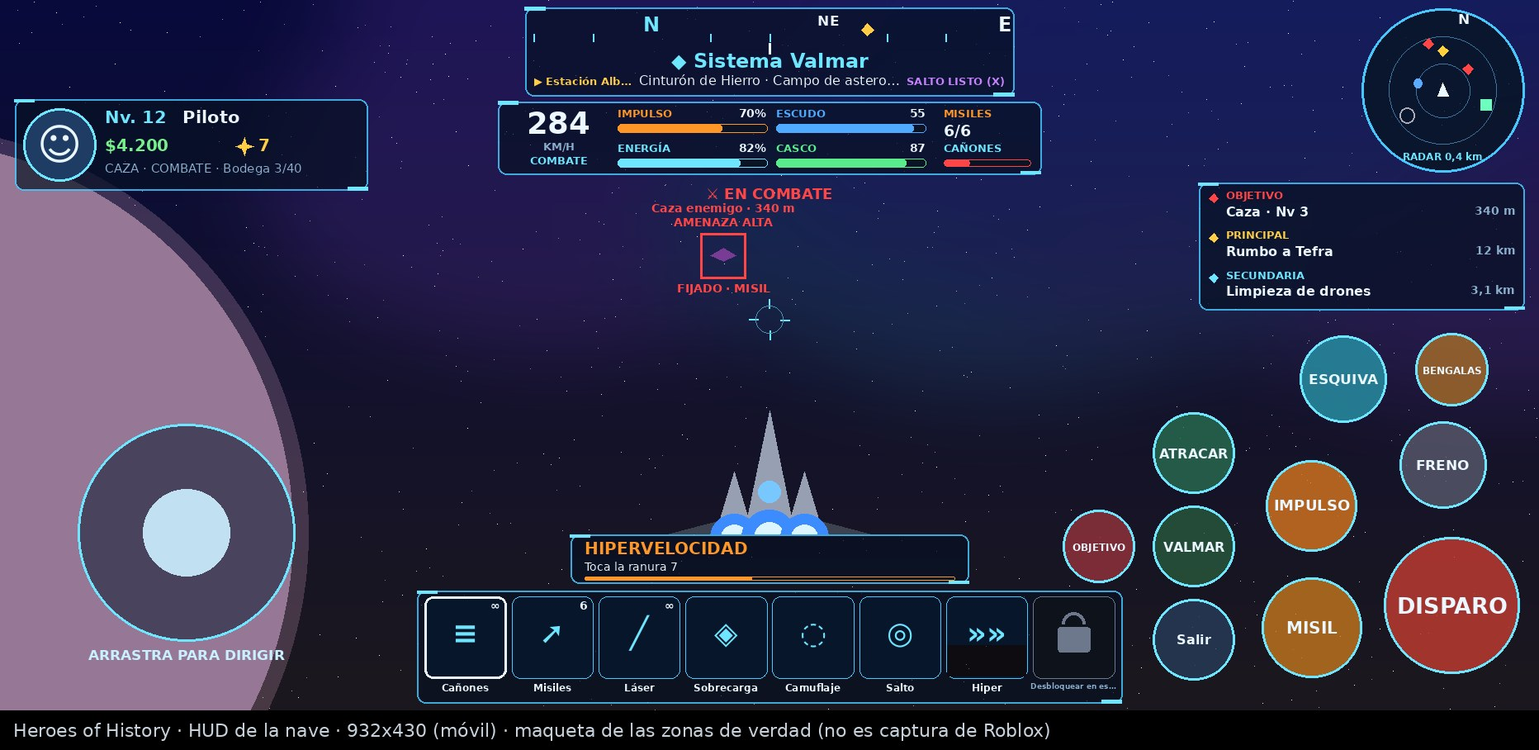
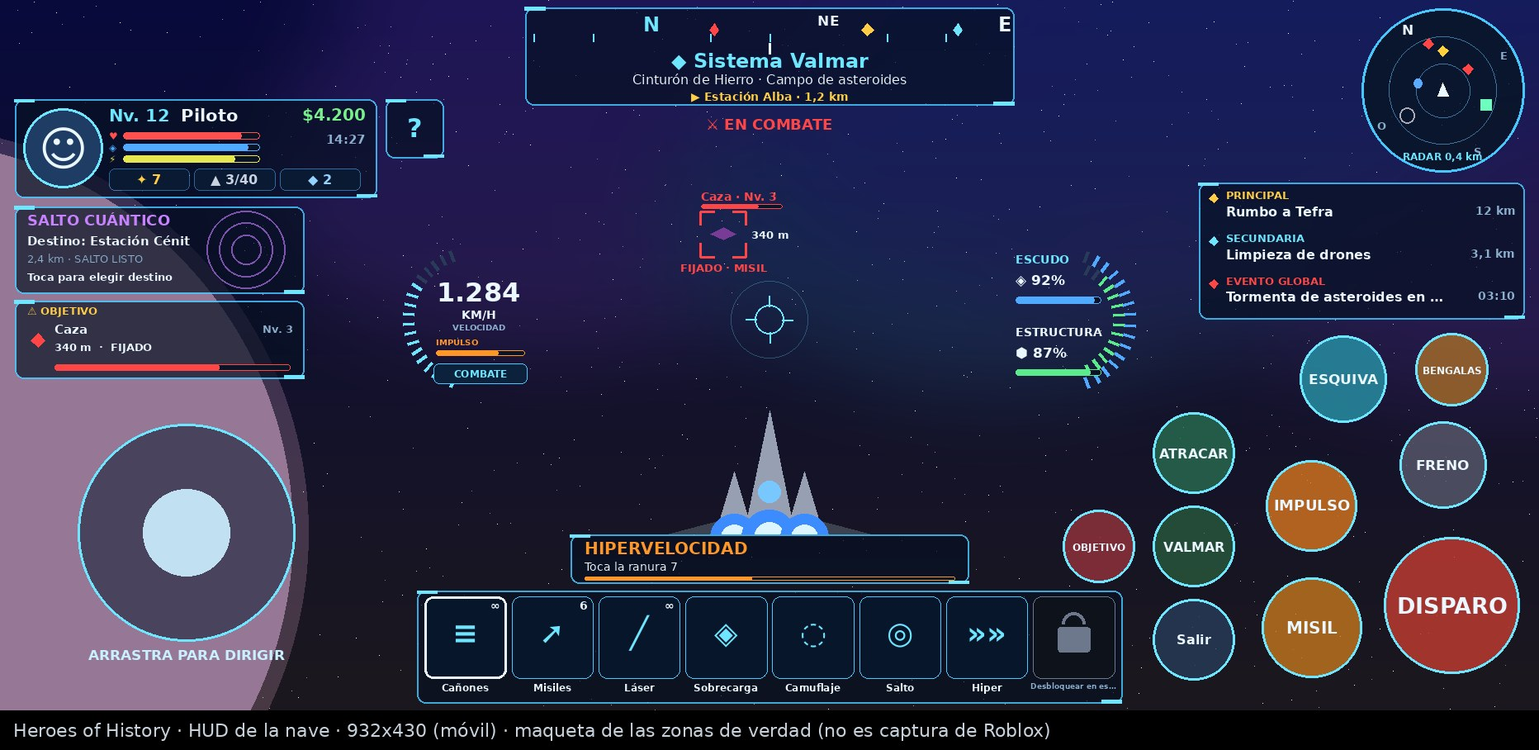
HUD de la referencia: maquetas nuevas (ordenador y móvil) y auditoría en diseno.md
- Maquetas con todo lo de la imagen: perfil con recursos y barras, brújula con marcas, arcos de velocidad, escudo y estructura, salto cuántico, objetivo, las dos listas de teclas, la nave en planta, atajos con Modo Combate y reloj; en el móvil, en compacto con «?».
- diseno.md §11: cada elemento de la referencia y dónde está, eventos globales, API por vehículo y lista de comprobación a mano.

Claude-Session: https://claude.ai/code/session_01NLHSc9vUgM3Lfn2jUL556r

diff --git a/roblox/scripts/espacio/hud_mockup.py b/roblox/scripts/espacio/hud_mockup.py
@@ -139,6 +139,37 @@ def bar(d, x, y, w, h, frac, color):
     d.rounded_rectangle([x, y, x + max(h, w * frac), y + h], radius=h / 2, fill=color)
 
 
+def arc_ticks(d, x, y, w, h, n, a0, a1, radius, k, lit, col, right=False):
+    """Rayitas de un arco en un cuadrado del alto del marco (como ShipHudLayout.arc)."""
+    side = h
+    ox = x + w - side if right else x
+    for i in range(n):
+        a = math.radians(a0 + (a1 - a0) * (i / (n - 1)))
+        cx, cy = ox + side * (0.5 + math.cos(a) * radius), y + side * (0.5 + math.sin(a) * radius)
+        dx, dy = math.cos(a) * 6 * k, math.sin(a) * 6 * k
+        c = col if i < lit else (40, 60, 90)
+        d.line([(cx - dx, cy - dy), (cx + dx, cy + dy)], fill=c, width=max(1, int(4 * k)))
+
+
+def key_chip(d, x, y, w, h, text, k, size=11):
+    d.rounded_rectangle([x, y, x + w, y + h], radius=4 * k, fill=(20, 40, 70), outline=EDGE)
+    d.text((x + w / 2, y + h / 2), text, font=font(size * k), fill=WHITE, anchor="mm")
+
+
+def plan_ship(d, cx, cy, s, col=(170, 200, 230)):
+    """La nave en planta (esquema de abajo a la izquierda y los atajos)."""
+    d.rectangle([cx - 0.05 * s, cy - 0.45 * s, cx + 0.05 * s, cy + 0.45 * s], fill=col)
+    d.polygon([(cx - 0.45 * s, cy + 0.2 * s), (cx, cy - 0.05 * s), (cx + 0.45 * s, cy + 0.2 * s), (cx + 0.45 * s, cy + 0.25 * s), (cx - 0.45 * s, cy + 0.25 * s)], fill=col)
+    for sx in (-0.2, 0.2):
+        d.polygon([(cx + sx * s, cy - 0.3 * s), (cx + (sx - 0.04) * s, cy + 0.35 * s), (cx + (sx + 0.04) * s, cy + 0.35 * s)], fill=col)
+    d.ellipse([cx - 0.06 * s, cy - 0.27 * s, cx + 0.06 * s, cy - 0.13 * s], fill=CYAN)
+
+
+# (los textos de las teclas, como ShipKeys.groupHints)
+FLIGHT = [("W/S", "Motor (acelerar / frenar)"), ("A/D", "Lateral"), ("Espacio/Alt", "Subir / bajar"), ("Shift", "Impulso / hipervelocidad"), ("Ctrl", "Frenar (doble: emergencia)"), ("Q", "Giro izquierda"), ("E", "Giro derecha"), ("Clic", "Disparar"), ("2", "Misil"), ("R", "Recargar armas"), ("Tab", "Cambiar de objetivo"), ("F", "Interactuar / atracar")]
+SPECIAL = [("C", "Esquivar / rodar"), ("X", "Salto cuántico"), ("7", "Hipervelocidad"), ("Z", "Camuflaje"), ("4", "Sobrecarga del escudo"), ("8", "Dron"), ("K", "Bengalas"), ("T", "Modo combate / crucero / …"), ("Y", "Asistencia de vuelo"), ("B", "Salir / abandonar nave")]
+
+
 def render(case, out_path):
     W, H = case["Size"]
     k = case["Scale"]
@@ -151,30 +182,51 @@ def render(case, out_path):
     Z = case["Zones"]
     # Nave y un enemigo fijado (el centro queda libre)
     ship(d, W * up / 2, H * up * 0.72, 2.2 * k * (1 if not touch else 1.1))
-    ex, ey = W * up * 0.47, H * up * 0.36
+    ex, ey = W * up * 0.47, H * up * 0.33
     d.polygon([(ex - 14 * k, ey), (ex, ey - 8 * k), (ex + 14 * k, ey), (ex, ey + 6 * k)], fill=(120, 60, 150))
     box = 50 * k
-    d.rectangle([ex - box / 2, ey - box / 2, ex + box / 2, ey + box / 2], outline=RED, width=max(1, int(3 * k)))
-    d.text((ex, ey - box / 2 - 4 * k), "Caza enemigo · 340 m\nAMENAZA ALTA", font=font(13 * k), fill=RED, anchor="md", align="center")
-    d.text((ex, ey + box / 2 + 4 * k), "FIJADO · MISIL", font=font(13 * k), fill=RED, anchor="ma")
-    # Mira (pequeña)
+    L = 15 * k
+    for sx, sy in ((-1, -1), (1, -1), (-1, 1), (1, 1)):
+        cx, cy = ex + sx * box / 2, ey + sy * box / 2
+        d.line([(cx, cy), (cx - sx * L, cy)], fill=RED, width=max(1, int(3 * k)))
+        d.line([(cx, cy), (cx, cy - sy * L)], fill=RED, width=max(1, int(3 * k)))
+    d.text((ex - box / 2, ey - box / 2 - 12 * k), "Caza · Nv. 3", font=font(13 * k), fill=RED, anchor="ls")
+    bar(d, ex - box / 2, ey - box / 2 - 9 * k, 90 * k, 5 * k, 0.7, RED)
+    d.text((ex + box / 2 + 6 * k, ey), "340 m", font=font(12 * k), fill=WHITE, anchor="lm")
+    d.text((ex, ey + box / 2 + 4 * k), "FIJADO · MISIL", font=font(12 * k), fill=RED, anchor="ma")
+    # Mira con su aro
     mx, my = W * up / 2, H * up * 0.45
     for dx, dy in ((0, -1), (0, 1), (-1, 0), (1, 0)):
-        d.line([(mx + dx * 12 * k, my + dy * 12 * k), (mx + dx * 22 * k, my + dy * 22 * k)], fill=CYAN, width=max(1, int(2 * k)))
-    d.ellipse([mx - 15 * k, my - 15 * k, mx + 15 * k, my + 15 * k], outline=CYAN + (150,), width=1)
-    # A · perfil
+        d.line([(mx + dx * 14 * k, my + dy * 14 * k), (mx + dx * 26 * k, my + dy * 26 * k)], fill=CYAN, width=max(1, int(2 * k)))
+    d.ellipse([mx - 16 * k, my - 16 * k, mx + 16 * k, my + 16 * k], outline=CYAN, width=max(1, int(2 * k)))
+    d.ellipse([mx - 42 * k, my - 42 * k, mx + 42 * k, my + 42 * k], outline=CYAN + (70,), width=1)
+    # A · piloto
     x, y, w, h = panel(layer, Z["A"], k)
     av = h - 20 * k
     d.ellipse([x + 10 * k, y + 10 * k, x + 10 * k + av, y + 10 * k + av], fill=(30, 60, 100), outline=CYAN, width=max(1, int(3 * k)))
     d.text((x + 10 * k + av / 2, y + 10 * k + av / 2), "☺", font=font(av * 0.6), fill=WHITE, anchor="mm")
-    tx = x + (112 if not touch else 100) * k
-    d.text((tx, y + 8 * k), "Nv. 12", font=font(20 * k), fill=CYAN)
-    d.text((tx + 86 * k, y + 8 * k), "Piloto", font=font(20 * k), fill=WHITE)
-    d.text((tx, y + 40 * k), "$4.200", font=font(19 * k), fill=(120, 240, 140))
-    sx0 = tx + (w - (tx - x)) / 2
-    star(d, sx0 + 9 * k, y + 52 * k, 10 * k, GOLD)
-    d.text((sx0 + 24 * k, y + 40 * k), "7", font=font(19 * k), fill=GOLD)
-    d.text((tx, y + 68 * k), "CAZA · COMBATE · Bodega 3/40", font=font(14 * k, False), fill=MUTED)
+    tx = x + (104 if touch else 120) * k
+    d.text((tx, y + 6 * k), "Nv. 12", font=font(20 * k), fill=CYAN)
+    d.text((tx + 80 * k, y + 6 * k), "Piloto", font=font(20 * k), fill=WHITE)
+    d.text((x + w - 12 * k, y + 6 * k), "$4.200", font=font(19 * k), fill=(120, 240, 140), anchor="ra")
+    by, step, bw = (36, 13, 150) if touch else (40, 15, 180)
+    for i, (icon, col, frac) in enumerate((("♥", (255, 80, 80), 0.87), ("◈", BLUE, 0.92), ("⚡", (230, 230, 80), 0.82))):
+        yy = y + (by + i * step) * k
+        d.text((tx, yy - 3 * k), icon, font=font(11 * k), fill=col)
+        bar(d, tx + 16 * k, yy, bw * k, 7 * k, frac, col)
+    if touch:
+        d.text((x + w - 12 * k, y + by * k), "14:27", font=font(14 * k), fill=MUTED, anchor="ra")
+    else:
+        d.text((tx + (bw + 26) * k, y + (by - 4) * k), "CAZA · COMBATE", font=font(12 * k, False), fill=MUTED)
+    ry = y + (76 if touch else 90) * k
+    rw = (w - (tx - x) - 12 * k) / 3
+    for i, (txt, col) in enumerate((("✨ 7", GOLD), ("⛏ 3/40", (200, 210, 225)), ("💎 2", (150, 210, 255)))):
+        rx = tx + i * rw
+        d.rounded_rectangle([rx, ry, rx + rw - 6 * k, ry + 24 * k], radius=6 * k, fill=(10, 26, 50), outline=EDGE + (120,))
+        d.text((rx + (rw - 6 * k) / 2, ry + 12 * k), txt.replace("💎", "◆").replace("⛏", "▲").replace("✨", "✦"), font=font(15 * k), fill=col, anchor="mm")
+    if "Help" in Z:
+        hx, hy, hw, hh = panel(layer, Z["Help"], k)
+        d.text((hx + hw / 2, hy + hh / 2), "?", font=font(30 * k), fill=CYAN, anchor="mm")
     # B · navegación
     x, y, w, h = panel(layer, Z["B"], k)
     heading = 30
@@ -187,32 +239,14 @@ def render(case, out_path):
                 d.text((px, y + 6 * k), name, font=font((22 if deg % 90 == 0 else 16) * k), fill=CYAN if name == "N" else WHITE, anchor="ma")
             else:
                 d.line([(px, y + 30 * k), (px, y + 38 * k)], fill=CYAN, width=max(1, int(2 * k)))
-    tpx = x + 10 * k + (0.5 + 25 / 120) * (w - 20 * k)
-    d.polygon([(tpx, y + 18 * k), (tpx + 7 * k, y + 25 * k), (tpx, y + 32 * k), (tpx - 7 * k, y + 25 * k)], fill=GOLD)
+    for bx, col, s in ((25, GOLD, 7), (-14, RED, 5), (48, CYAN, 5)):
+        tpx = x + 10 * k + (0.5 + bx / 120) * (w - 20 * k)
+        d.polygon([(tpx, y + 18 * k), (tpx + s * k, y + 25 * k), (tpx, y + 32 * k), (tpx - s * k, y + 25 * k)], fill=col)
     d.line([(x + w / 2, y + 40 * k), (x + w / 2, y + 52 * k)], fill=WHITE, width=max(1, int(3 * k)))
     d.text((x + w / 2, y + 46 * k), "◆ Sistema Valmar", font=font(22 * k), fill=CYAN, anchor="ma")
-    fz, fs = font(15 * k, False), font(12 * k)
-    d.text((x + w / 2, y + 72 * k), fit(d, "Cinturón de Hierro · Campo de asteroides", fz, w * 0.54), font=fz, fill=WHITE, anchor="ma")
-    d.text((x + 10 * k, y + 74 * k), fit(d, "▶ Estación Alba · 1,2 km", fs, w * 0.22 - 10 * k), font=fs, fill=GOLD)
-    d.text((x + w - 10 * k, y + 74 * k), fit(d, "SALTO LISTO (X)", fs, w * 0.22 - 10 * k), font=fs, fill=VIOLET, anchor="ra")
-    # C · estado
-    x, y, w, h = panel(layer, Z["C"], k)
-    d.text((x + 67 * k, y + 4 * k), "284", font=font(34 * k), fill=WHITE, anchor="ma")
-    d.text((x + 67 * k, y + 42 * k), "KM/H", font=font(12 * k), fill=MUTED, anchor="ma")
-    d.text((x + 67 * k, y + 58 * k), "COMBATE", font=font(12 * k), fill=CYAN, anchor="ma")
-    colw = (w - 132 * k - (128 if touch else 148) * k - 10 * k) / 2
-    rows = [("IMPULSO", ORANGE, 0.7, "70%"), ("ENERGÍA", CYAN, 0.82, "82%"), ("ESCUDO", BLUE, 0.92, "55"), ("CASCO", GREEN, 0.87, "87")]
-    for i, (cap, col, frac, val) in enumerate(rows):
-        cx = x + 132 * k + (i // 2) * (colw + 10 * k)
-        cy = y + (6 + (i % 2) * 38) * k
-        d.text((cx, cy), cap, font=font(12 * k), fill=col)
-        d.text((cx + colw, cy), val, font=font(13 * k), fill=WHITE, anchor="ra")
-        bar(d, cx, cy + 19 * k, colw, 9 * k, frac, col)
-    rx = x + w - (108 if touch else 124) * k
-    d.text((rx, y + 6 * k), "MISILES", font=font(12 * k), fill=ORANGE)
-    d.text((rx, y + 22 * k), "6/6", font=font(18 * k), fill=WHITE)
-    d.text((rx, y + 44 * k), "CAÑONES", font=font(12 * k), fill=CYAN)
-    bar(d, rx, y + 64 * k, (96 if touch else 116) * k, 7 * k, 0.3, RED)
+    fz = font(15 * k, False)
+    d.text((x + w / 2, y + 71 * k), fit(d, "Cinturón de Hierro · Campo de asteroides", fz, w - 24 * k), font=fz, fill=WHITE, anchor="ma")
+    d.text((x + w / 2, y + 91 * k), "▶ Estación Alba · 1,2 km", font=font(13 * k), fill=GOLD, anchor="ma")
     # J · aviso
     x, y, w, h = [v * k for v in Z["J"]]
     d.text((x + w / 2, y + h / 2), "⚔ EN COMBATE", font=font(17 * k), fill=RED, anchor="mm")
@@ -223,8 +257,8 @@ def render(case, out_path):
         d.ellipse([x + w * (1 - f) / 2, y + h * (1 - f) / 2, x + w * (1 + f) / 2, y + h * (1 + f) / 2], outline=CYAN + (110,), width=1)
     cx, cy = x + w / 2, y + h / 2
     d.polygon([(cx, cy - 8 * k), (cx - 6 * k, cy + 6 * k), (cx + 6 * k, cy + 6 * k)], fill=WHITE)
-    for (bx, by, col, shape) in ((0.0, -0.55, (255, 210, 60), "r"), (0.35, -0.3, RED, "r"), (-0.2, -0.65, RED, "r"), (0.6, 0.2, (110, 255, 190), "s"), (-0.5, 0.35, (170, 170, 185), "o"), (-0.35, -0.1, (90, 170, 255), "c")):
-        px, py = cx + bx * w * 0.44, cy + by * h * 0.44
+    for (bx, by2, col, shape) in ((0.0, -0.55, (255, 210, 60), "r"), (0.35, -0.3, RED, "r"), (-0.2, -0.65, RED, "r"), (0.6, 0.2, (110, 255, 190), "s"), (-0.5, 0.35, (170, 170, 185), "o"), (-0.35, -0.1, (90, 170, 255), "c")):
+        px, py = cx + bx * w * 0.44, cy + by2 * h * 0.44
         s = 6 * k
         if shape == "r":
             d.polygon([(px, py - s), (px + s, py), (px, py + s), (px - s, py)], fill=col)
@@ -234,40 +268,107 @@ def render(case, out_path):
             d.ellipse([px - s * 1.4, py - s * 1.4, px + s * 1.4, py + s * 1.4], outline=col, width=2)
         else:
             d.ellipse([px - s * 0.8, py - s * 0.8, px + s * 0.8, py + s * 0.8], fill=col)
-    d.text((cx + 0.3 * w * 0.43, y + 0.06 * h), "N", font=font(16 * k), fill=WHITE, anchor="mm")
+    for letter, off in (("N", 0), ("E", 90), ("S", 180), ("O", 270)):
+        a = math.radians(off - heading)
+        d.text((cx + math.sin(a) * w * 0.43, cy - math.cos(a) * h * 0.43), letter, font=font((16 if letter == "N" else 12) * k), fill=WHITE if letter == "N" else MUTED, anchor="mm")
     d.text((cx, y + h - 10 * k), "RADAR 0,4 km", font=font(11 * k), fill=CYAN, anchor="md")
-    # E · misiones
+    # E · misiones (principal, secundaria, evento global con reloj)
     x, y, w, h = panel(layer, Z["E"], k)
-    mrows = [("OBJETIVO", RED, "Caza · Nv 3", "Salud 70% · amenaza ALTA · FIJADO", "340 m"), ("PRINCIPAL", GOLD, "Rumbo a Tefra", "Vuela a la órbita de Tefra", "12 km"), ("SECUNDARIA", CYAN, "Limpieza de drones", "2/6 · Sector Brasa", "3,1 km"), ("EVENTO", RED, "⚠ Patrullas en el Sector Brasa", "", ""), ("SECUNDARIA", CYAN, "Carga para Cénit", "Entregar · Estación Cénit", "5 km")]
-    n = 3 if touch else 4
-    rh = (h - 8 * k) / n
-    for i in range(n):
-        kind, col, title, step, right = mrows[i]
-        ry = y + 4 * k + i * rh
-        d.polygon([(x + 17 * k, ry + 8 * k), (x + 22 * k, ry + 13 * k), (x + 17 * k, ry + 18 * k), (x + 12 * k, ry + 13 * k)], fill=col)
-        d.text((x + 30 * k, ry + 2 * k), kind, font=font(12 * k), fill=col)
-        d.text((x + 30 * k, ry + 19 * k), title, font=font(15 * k), fill=WHITE)
-        d.text((x + w - 10 * k, ry + 19 * k), right, font=font(13 * k), fill=MUTED, anchor="ra")
-        if rh >= 54 * k and step:
-            d.text((x + 30 * k, ry + 38 * k), step, font=font(12 * k, False), fill=MUTED)
-    # G · teclas (ordenador)
-    if "G" in Z:
-        x, y, w, h = panel(layer, Z["G"], k)
-        d.text((x + 12 * k, y + 6 * k), "MANDOS DE VUELO", font=font(13 * k), fill=CYAN)
-        # (el orden de ShipKeys.HintOrder)
-        hints = [("W/S", "Motor"), ("A/D", "Lateral"), ("Espacio/Alt", "Subir / bajar"), ("Q/E", "Alabeo"), ("Clic", "Disparar"), ("2", "Misil"), ("Shift", "Impulso"), ("Ctrl", "Freno"), ("C", "Esquiva"), ("K", "Bengalas"), ("Tab", "Objetivo"), ("7", "Hipervelocidad"), ("X", "Salto cuántico"), ("Z", "Camuflaje"), ("T", "Modo"), ("B", "Bajarse")]
-        cw = (w - 24 * k - 8 * k) / 2
-        for i, (key, txt) in enumerate(hints):
-            cx = x + 12 * k + (i % 2) * (cw + 8 * k)
-            cy = y + 26 * k + (i // 2) * 22 * k
-            d.rounded_rectangle([cx, cy + 1 * k, cx + 64 * k, cy + 20 * k], radius=5 * k, fill=(20, 40, 70), outline=EDGE)
-            d.text((cx + 32 * k, cy + 10.5 * k), key, font=font(10 * k), fill=WHITE, anchor="mm")
-            d.text((cx + 70 * k, cy + 10.5 * k), txt, font=font(11 * k, False), fill=WHITE, anchor="lm")
-    if "I" in Z:
-        x, y, w, h = panel(layer, Z["I"], k)
-        for i, (key, txt) in enumerate((("Clic", "DISPARO"), ("2", "MISIL"), ("Shift", "IMPULSO"), ("Ctrl", "FRENO"), ("C", "ESQUIVA"), ("B", "Salir"))):
-            d.text((x + 14 * k, y + (10 + i * 30) * k), key, font=font(13 * k), fill=CYAN)
-            d.text((x + 90 * k, y + (10 + i * 30) * k), txt, font=font(13 * k), fill=WHITE)
+    mrows = [("PRINCIPAL", GOLD, "Rumbo a Tefra", "Vuela a la órbita de Tefra", "12 km"), ("SECUNDARIA", CYAN, "Limpieza de drones", "2/6 · Sector Brasa", "3,1 km"), ("EVENTO GLOBAL", RED, "Tormenta de asteroides en Campo Brasa", "Termina en 03:10 · minar da el doble", "03:10")]
+    rh = (h - 8 * k - (0 if touch else 16 * k)) / 3
+    for i, (kind, col, title, stp, right) in enumerate(mrows):
+        ry2 = y + 4 * k + i * rh
+        d.polygon([(x + 17 * k, ry2 + 8 * k), (x + 22 * k, ry2 + 13 * k), (x + 17 * k, ry2 + 18 * k), (x + 12 * k, ry2 + 13 * k)], fill=col)
+        d.text((x + 30 * k, ry2 + 2 * k), kind, font=font(12 * k), fill=col)
+        ft = font(15 * k)
+        d.text((x + 30 * k, ry2 + 19 * k), fit(d, title, ft, w - 120 * k), font=ft, fill=WHITE)
+        d.text((x + w - 10 * k, ry2 + 19 * k), right, font=font(13 * k), fill=MUTED, anchor="ra")
+        if rh >= 54 * k:
+            d.text((x + 30 * k, ry2 + 38 * k), stp, font=font(12 * k, False), fill=MUTED)
+    # Speed · arco de velocidad
+    x, y, w, h = [v * k for v in Z["Speed"]]
+    arc_ticks(d, x, y, w, h, 18 if touch else 22, 110, 250, 0.46, k, 13 if touch else 16, CYAN)
+    d.text((x + w * 0.6, y + h * 0.31), "1.284", font=font((30 if touch else 36) * k), fill=WHITE, anchor="mm")
+    d.text((x + w * 0.6, y + h * 0.465), "KM/H", font=font(13 * k), fill=WHITE, anchor="mm")
+    d.text((x + w * 0.6, y + h * 0.55), "VELOCIDAD", font=font(10 * k), fill=MUTED, anchor="mm")
+    d.text((x + w * 0.26, y + h * 0.62), "IMPULSO", font=font(10 * k), fill=ORANGE)
+    bar(d, x + w * 0.26, y + h * 0.71, w * 0.7, 6 * k, 0.7, ORANGE)
+    d.rounded_rectangle([x + w * 0.24, y + h * 0.8, x + w * 0.98, y + h * 0.94], radius=6 * k, fill=(12, 34, 60), outline=EDGE)
+    d.text((x + w * 0.61, y + h * 0.87), "COMBATE", font=font(11 * k), fill=CYAN, anchor="mm")
+    # Defense · escudo y estructura
+    x, y, w, h = [v * k for v in Z["Defense"]]
+    arc_ticks(d, x, y, w, h, 16 if touch else 20, 70, -70, 0.46, k, 15 if touch else 18, BLUE, right=True)
+    arc_ticks(d, x, y, w, h, 14 if touch else 18, 64, -64, 0.38, k, 12 if touch else 16, GREEN, right=True)
+    for i, (cap, col, val, frac) in enumerate((("ESCUDO", CYAN, "◈ 92%", 0.92), ("ESTRUCTURA", WHITE, "⬢ 87%", 0.87))):
+        yy = y + h * (0.5 * i)
+        d.text((x + w * 0.05, yy + h * 0.04), cap, font=font(13 * k), fill=col)
+        d.text((x + w * 0.05, yy + h * 0.17), val, font=font((16 if touch else 18) * k), fill=WHITE)
+        bar(d, x + w * 0.05, yy + h * 0.34, w * 0.67, 7 * k, frac, BLUE if i == 0 else GREEN)
+    # Jump · salto cuántico
+    x, y, w, h = panel(layer, Z["Jump"], k)
+    for f in (0.9, 0.62, 0.34):
+        r = h * f / 2
+        d.ellipse([x + w * 0.8 - r, y + h / 2 - r, x + w * 0.8 + r, y + h / 2 + r], outline=VIOLET + (150,), width=max(1, int(2 * k)))
+    d.text((x + 14 * k, y + 6 * k), "SALTO CUÁNTICO", font=font(17 * k), fill=VIOLET)
+    d.text((x + 14 * k, y + 30 * k), "Destino: Estación Cénit", font=font(14 * k), fill=WHITE)
+    d.text((x + 14 * k, y + 50 * k), "2,4 km · SALTO LISTO", font=font(12 * k, False), fill=MUTED)
+    if touch:
+        d.text((x + 14 * k, y + h - 26 * k), "Toca para elegir destino", font=font(12 * k), fill=WHITE)
+    else:
+        key_chip(d, x + 14 * k, y + h - 30 * k, 28 * k, 22 * k, "X", k, 12)
+        d.text((x + 50 * k, y + h - 19 * k), "Activar", font=font(14 * k), fill=WHITE, anchor="lm")
+    # Target · objetivo
+    x, y, w, h = panel(layer, Z["Target"], k)
+    d.text((x + 14 * k, y + 4 * k), "⚠ OBJETIVO", font=font(12 * k), fill=GOLD)
+    d.polygon([(x + 26 * k, y + 36 * k), (x + 34 * k, y + 44 * k), (x + 26 * k, y + 52 * k), (x + 18 * k, y + 44 * k)], fill=RED)
+    d.text((x + 44 * k, y + 24 * k), "Caza", font=font(14 * k), fill=WHITE)
+    d.text((x + w - 12 * k, y + 24 * k), "Nv. 3", font=font(12 * k), fill=MUTED, anchor="ra")
+    d.text((x + 44 * k, y + 44 * k), "340 m  ·  FIJADO", font=font(12 * k), fill=WHITE)
+    bar(d, x + 44 * k, y + h - 16 * k, w - 60 * k, 7 * k, 0.7, RED)
+    # Keys / Moves (ordenador)
+    for zname, title, rows_ in (("Keys", "COMANDOS DE VUELO", FLIGHT), ("Moves", "MANIOBRAS ESPECIALES", SPECIAL)):
+        if zname not in Z:
+            continue
+        x, y, w, h = panel(layer, Z[zname], k)
+        d.text((x + 12 * k, y + 6 * k), title, font=font(13 * k), fill=CYAN)
+        for i, (key, txt) in enumerate(rows_):
+            cy2 = y + 28 * k + i * 21 * k
+            key_chip(d, x + 12 * k, cy2 + 1 * k, 78 * k, 18 * k, key, k, 10)
+            d.text((x + 98 * k, cy2 + 10 * k), txt, font=font(12 * k, False), fill=WHITE, anchor="lm")
+    # Ship · la nave en planta (ordenador)
+    if "Ship" in Z:
+        x, y, w, h = panel(layer, Z["Ship"], k)
+        cx2, cy2 = x + 85 * k, y + 90 * k
+        d.ellipse([cx2 - 75 * k, cy2 - 75 * k, cx2 + 75 * k, cy2 + 75 * k], outline=EDGE, width=max(1, int(2 * k)))
+        d.ellipse([cx2 - 60 * k, cy2 - 60 * k, cx2 + 60 * k, cy2 + 60 * k], outline=CYAN + (80,), width=1)
+        plan_ship(d, cx2, cy2, 110 * k)
+        rx = x + 172 * k
+        for i, (icon, col, val) in enumerate((("◈", BLUE, "100%"), ("⬢", GREEN, "100%"), ("⚡", (230, 230, 80), "100%"))):
+            d.text((rx, y + (10 + 26 * i) * k), icon, font=font(17 * k), fill=col)
+            d.text((rx + 28 * k, y + (10 + 26 * i) * k), val, font=font(17 * k), fill=WHITE)
+        bar(d, rx, y + 88 * k, 140 * k, 6 * k, 1, (230, 230, 80))
+        d.text((rx, y + 102 * k), "MISILES 6/6", font=font(12 * k), fill=ORANGE)
+        d.text((x + w - 10 * k, y + 102 * k), "🎇4".replace("🎇", "✶ "), font=font(12 * k), fill=(255, 210, 140), anchor="ra")
+        d.text((rx, y + 126 * k), "CAÑONES", font=font(12 * k), fill=CYAN)
+        bar(d, rx, y + 150 * k, 140 * k, 6 * k, 0.3, RED)
+    # Quick · atajos, modo combate y reloj (ordenador)
+    if "Quick" in Z:
+        x, y, w, h = panel(layer, Z["Quick"], k)
+        cx2, cy2 = x + 62 * k, y + 72 * k
+        d.ellipse([cx2 - 52 * k, cy2 - 52 * k, cx2 + 52 * k, cy2 + 52 * k], outline=EDGE, width=max(1, int(2 * k)))
+        d.arc([cx2 - 42 * k, cy2 - 42 * k, cx2 + 42 * k, cy2 + 42 * k], 120, 420, fill=GREEN, width=max(1, int(3 * k)))
+        plan_ship(d, cx2, cy2, 60 * k)
+        for i, (key, txt) in enumerate((("Q", "Giro izq."), ("E", "Giro der."), ("C", "Esquivar"), ("Z", "Camuflaje"))):
+            yy = y + (8 + 30 * i) * k
+            key_chip(d, x + 124 * k, yy + 2 * k, 26 * k, 22 * k, key, k, 12)
+            d.text((x + 158 * k, yy + 13 * k), txt, font=font(14 * k), fill=WHITE, anchor="lm")
+        d.text((x + 12 * k, y + 153 * k), "▸ Modo Combate", font=font(13 * k), fill=WHITE, anchor="lm")
+        d.rounded_rectangle([x + w - 78 * k, y + 140 * k, x + w - 14 * k, y + 166 * k], radius=13 * k, fill=(16, 60, 100), outline=EDGE)
+        d.text((x + w - 46 * k, y + 153 * k), "ON", font=font(13 * k), fill=CYAN, anchor="mm")
+        d.text((x + w - 40 * k, y + h - 8 * k), "14:27", font=font(15 * k), fill=WHITE, anchor="rd")
+        for i in range(1, 5):
+            bx2 = x + w - 34 * k + i * 5 * k
+            d.rectangle([bx2, y + h - 10 * k - (3 + 3 * i) * k, bx2 + 3 * k, y + h - 10 * k], fill=CYAN)
     # H · ranuras
     x, y, w, h = panel(layer, Z["H"], k)
     sz, gap = case["Slot"] * k, case["Gap"] * k
@@ -286,8 +387,6 @@ def render(case, out_path):
             d.text((sx + 6 * k, sy + 3 * k), str(i + 1), font=font(13 * k), fill=MUTED)
         if count:
             d.text((sx + sz - 6 * k, sy + 3 * k), count, font=font(13 * k), fill=WHITE, anchor="ra")
-        if i == 6:
-            d.rectangle([sx + 2, sy + sz * 0.6, sx + sz - 2, sy + sz - 2], fill=(0, 0, 0, 120))
         if locked:
             fl = font(9 * k)
             d.text((sx + sz / 2, sy + sz + 4 * k), fit(d, LOCKED_NOTE, fl, sz + gap), font=fl, fill=MUTED, anchor="ma")
@@ -301,9 +400,9 @@ def render(case, out_path):
     # Táctil: botones grandes y palanca
     for bid, r in case.get("Buttons", {}).items():
         label, col = BUTTON_LABELS.get(bid, (bid, (40, 60, 90)))
-        bx, by, bw, bh = [v * k for v in r]
-        d.ellipse([bx, by, bx + bw, by + bh], fill=col + (200,), outline=CYAN, width=max(1, int(3 * k)))
-        d.text((bx + bw / 2, by + bh / 2), label, font=font(min(min(bw, bh) * 0.17, bw * 0.8 / (0.68 * len(label)))), fill=WHITE, anchor="mm")
+        bx, by3, bw2, bh = [v * k for v in r]
+        d.ellipse([bx, by3, bx + bw2, by3 + bh], fill=col + (200,), outline=CYAN, width=max(1, int(3 * k)))
+        d.text((bx + bw2 / 2, by3 + bh / 2), label, font=font(min(min(bw2, bh) * 0.17, bw2 * 0.8 / (0.68 * len(label)))), fill=WHITE, anchor="mm")
     st = case.get("Stick")
     if st:
         sx, sy, sw, sh = [v * k for v in st]

diff --git a/roblox/docs/espacio-aaa/diseno.md b/roblox/docs/espacio-aaa/diseno.md
@@ -55,6 +55,9 @@ dueño de red. Disparos, daño, munición, energía, recargas, habilidades y sal
 
 ### Fase 3 · HUD por zonas y mandos
 
+> La fase 11 rehízo el HUD con **todo** lo de la imagen de referencia y por vehículo: ver §11 (las zonas
+> C, G e I de esta tabla ya no existen; sus datos están en Speed, Defense, Ship, Keys/Moves y Quick).
+
 Un HUD nuevo para la nave (`UI/AirCombatHud`, mismo nombre y API; las cuentas puras en
 `UI/ShipHudLayout`), colocado sin pisarse en 1920x1080, 932x430, 844x390 y 640x360:
 
@@ -312,3 +315,67 @@ estación»). No hay más candados en la nave.
     lo pueden destruir; otro jugador lo ve.
 18. **Efectos**: distorsión en hipervelocidad y al cargar el salto; en gráficos Bajo, sin tirones.
 19. **Varios jugadores**: dos en la misma zona ven los efectos del otro; uno muy lejos no recibe nada.
+
+## 11. HUD completo como la referencia (fase 11, por orden del dueño)
+
+«Debe aparecer TODA la información que hay en esta imagen; solo cambia según lo que vayas a volar.»
+Auditoría elemento por elemento de `referencia-hud.png` (sin el pie con el nombre de la imagen: aquí no hay
+pie, o «Heroes of History» en las maquetas):
+
+| Elemento de la referencia | En el juego | Zona / función |
+|---|---|---|
+| Avatar, nivel, nombre, dinero | Miniatura de Roblox, `Level`, nombre, dinero | A · `setProfile` |
+| 3 contadores de recursos | ✨ Chispas, ⛏ mineral en la bodega (n/40), 💎 cristales solares | A · `setResources` (datos de `SpaceService.infoFor`) |
+| Barras pequeñas de vida/escudo/energía | Casco (rojo), escudo (azul), energía (amarilla) | A · `set` |
+| Brújula N/E/S/O con marcas | Gira con el rumbo; rombo del destino, objetivo (rojo), misión principal (cian) | B · `setCompass(view, rumbo, destino, extra)` |
+| «Sistema … / Planeta … / distancia» | «Sistema Valmar», zona o planeta, «▶ destino · distancia» | B · `setNav` |
+| Radar con aros | Aros, cono, N/E/S/O que giran, iconos por tipo y alcance por modo | D · `radar` |
+| Misión principal, secundaria, evento global | Historia, tablón y **EVENTO GLOBAL con reloj** (abajo) | E · `setMissions` |
+| Mira y marca del enemigo | Mira con aro; corchetes con nombre, nivel, barra de salud y distancia | F · `setLock` |
+| Arco de velocidad (KM/H) | Arco de rayitas, KM/H, VELOCIDAD, impulso y el modo (se toca) | Speed · `set` (`SpeedMax`) |
+| Arcos de ESCUDO y ESTRUCTURA | Dos arcos y barras con % | Defense · `set` |
+| Panel SALTO CUÁNTICO | Destino (elegido o sugerido), distancia, estado y «X Activar» (en el móvil se toca) | Jump · `setJump` |
+| HIPERVELOCIDAD – mantén Shift | Letrero encima de la barra | Prompt · `setPrompt` |
+| Barra de 8 habilidades con cantidades | Igual (y recargas, motivos, candado del dron) | H · `setSlots` |
+| Esquema de la nave con escudo/casco/energía | La nave en planta con %, misiles, bengalas, arma y calor | Ship (ordenador) |
+| Atajos: giro izq./der., esquivar, camuflaje | Con su tecla (o botón del mando); esquivar y camuflaje se pueden pulsar | Quick (ordenador) |
+| «Modo Combate ON/OFF» | ON en combate, OFF en crucero/exploración; se pulsa | Quick + el chip de Speed |
+| Tarjeta OBJETIVO | Nombre, nivel, distancia, salud y FIJADO (se toca para cambiar) | Target · `setTarget` |
+| «COMANDOS DE VUELO» y «MANIOBRAS ESPECIALES» | Dos listas; **H** las pliega; con mando enseñan sus botones | Keys / Moves · `setHintGroups`, `toggleHints` |
+| Reloj y señal | Hora local | Quick (ordenador) / A (móvil) · `setClock` |
+
+**Móvil**: lo mismo en compacto y sin pisarse (probado en 932x430, 844x390 y 640x360): salto y objetivo
+bajo el perfil, arcos a los lados de la mira, el reloj en el perfil, el modo en el arco de velocidad; las
+listas de teclas, la nave en planta y los atajos no van (la palanca y los botones grandes ocupan las
+esquinas): **«?»** abre lo que hace cada botón.
+
+**Eventos globales** (`shared/Cosmos/SpaceEvents`, nuevos): salen de la hora del servidor
+(`workspace:GetServerTimeNow()`), iguales en todos los servidores sin mandar nada. Cada 15 min: 5 min de
+evento y 10 de calma (el HUD dice cuál viene y en cuánto). *Tormenta de asteroides* en un campo: minar ahí
+da una unidad más (si cabe). *Incursión pirata* en un sector: cada derribo ahí da ✨ +1 (con el tope por
+hora). El servidor lo aplica en `SpaceService.onRock` y `onKill`.
+
+**Por vehículo** (para el avión y lo que venga; todo añadido, nada de antes cambia):
+- `ShipHudLayout.Vehicles` = `Ship` (todo) y `Plane` (sin salto cuántico ni escudo).
+- `ShipHudLayout.defineVehicle(id, { Name, Without = { zonas }, Shield, Slots, Silhouette })`.
+- `ShipHudLayout.compute(viewport, { Touch, Inset, Vehicle })`.
+- `AirCombatHud.new(parent, touch, vehicle?)` y `AirCombatHud.setVehicle(view, id)`: coloca solo sus
+  zonas y esconde lo del escudo si no tiene.
+- `ShipHudClient` usa `a.Vehicle` (por defecto `"Ship"`).
+
+![HUD en el ordenador (1920x1080), con todo lo de la referencia](hud-1920x1080.jpg)
+![HUD en el móvil (932x430), en compacto](hud-932x430.jpg)
+
+### Comprobar a mano (HUD de la referencia)
+
+20. **Ordenador**: que se vea todo lo de la tabla y nada se pise; H pliega y despliega las dos listas;
+    con mando, las listas y los atajos enseñan sus botones; el reloj avanza.
+21. **Arcos**: el de velocidad sube al acelerar (naranja con impulso); escudo y estructura bajan al recibir.
+22. **Objetivo**: corchetes rojos con nombre, nivel, salud y distancia; la tarjeta OBJETIVO igual; Tab
+    (o tocarla) cambia de blanco.
+23. **Salto**: el panel dice el destino y la distancia; X (o tocarlo) abre el selector.
+24. **Evento global**: la fila cuenta atrás; durante la tormenta, minar en su campo da el doble; durante
+    la incursión, los derribos en su sector dan una Chispa más.
+25. **Móvil** (los tres tamaños): todo en compacto sin tapar la palanca, los botones ni la mira; «?»
+    abre y cierra la ayuda; tocar el chip de modo cambia de modo.
+26. **Avión** (cuando el otro controlador lo use): sin panel de salto ni escudo; lo demás igual.
